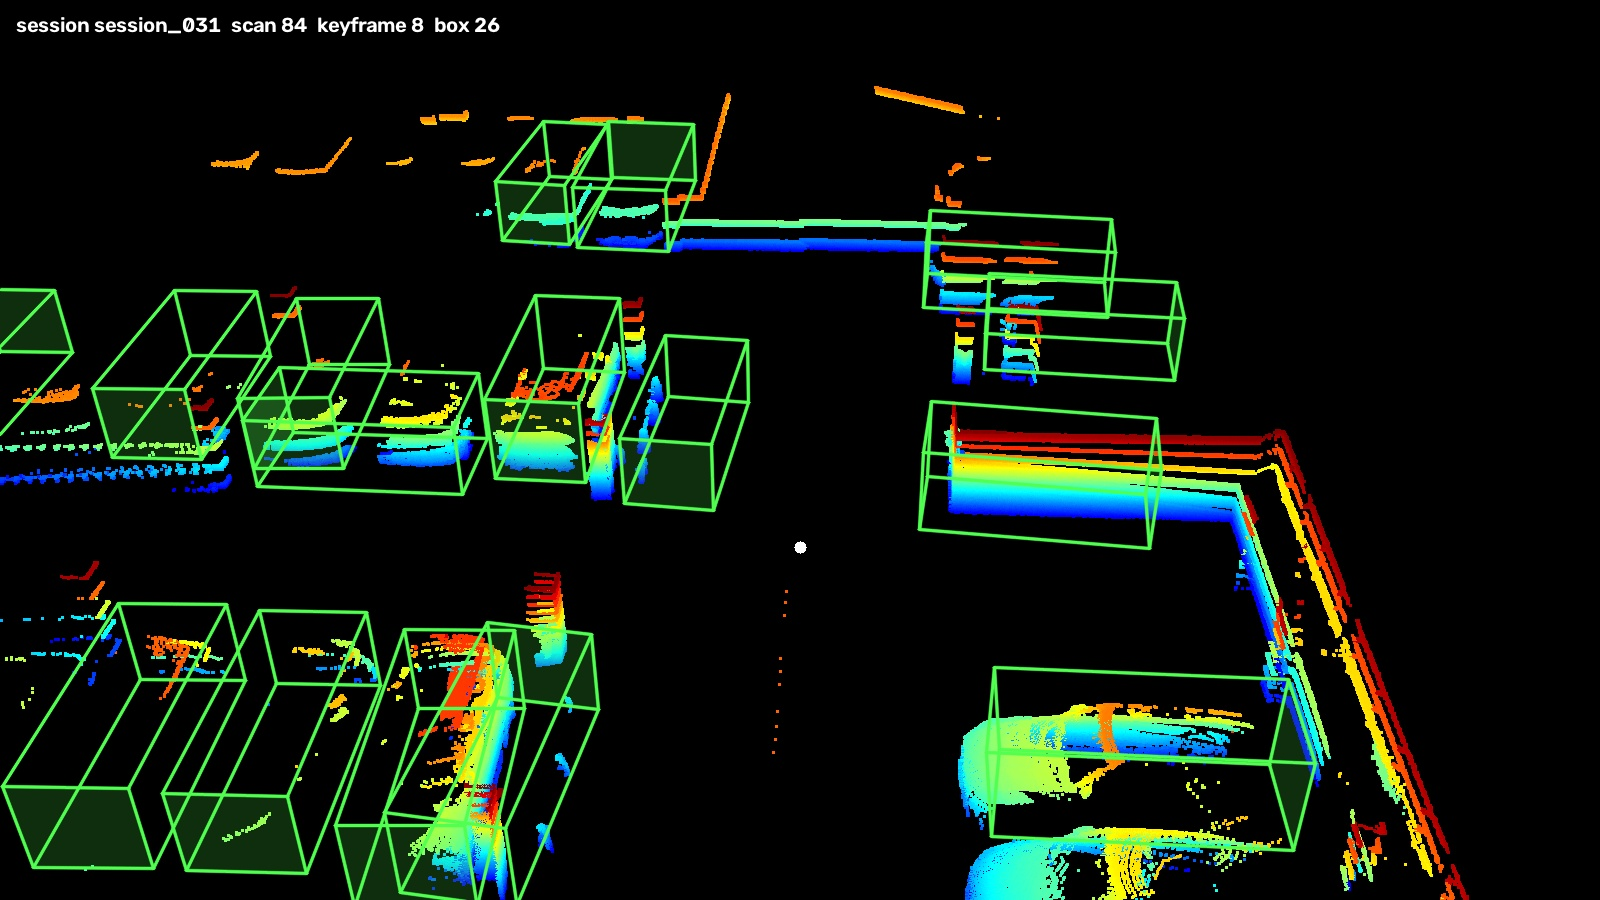
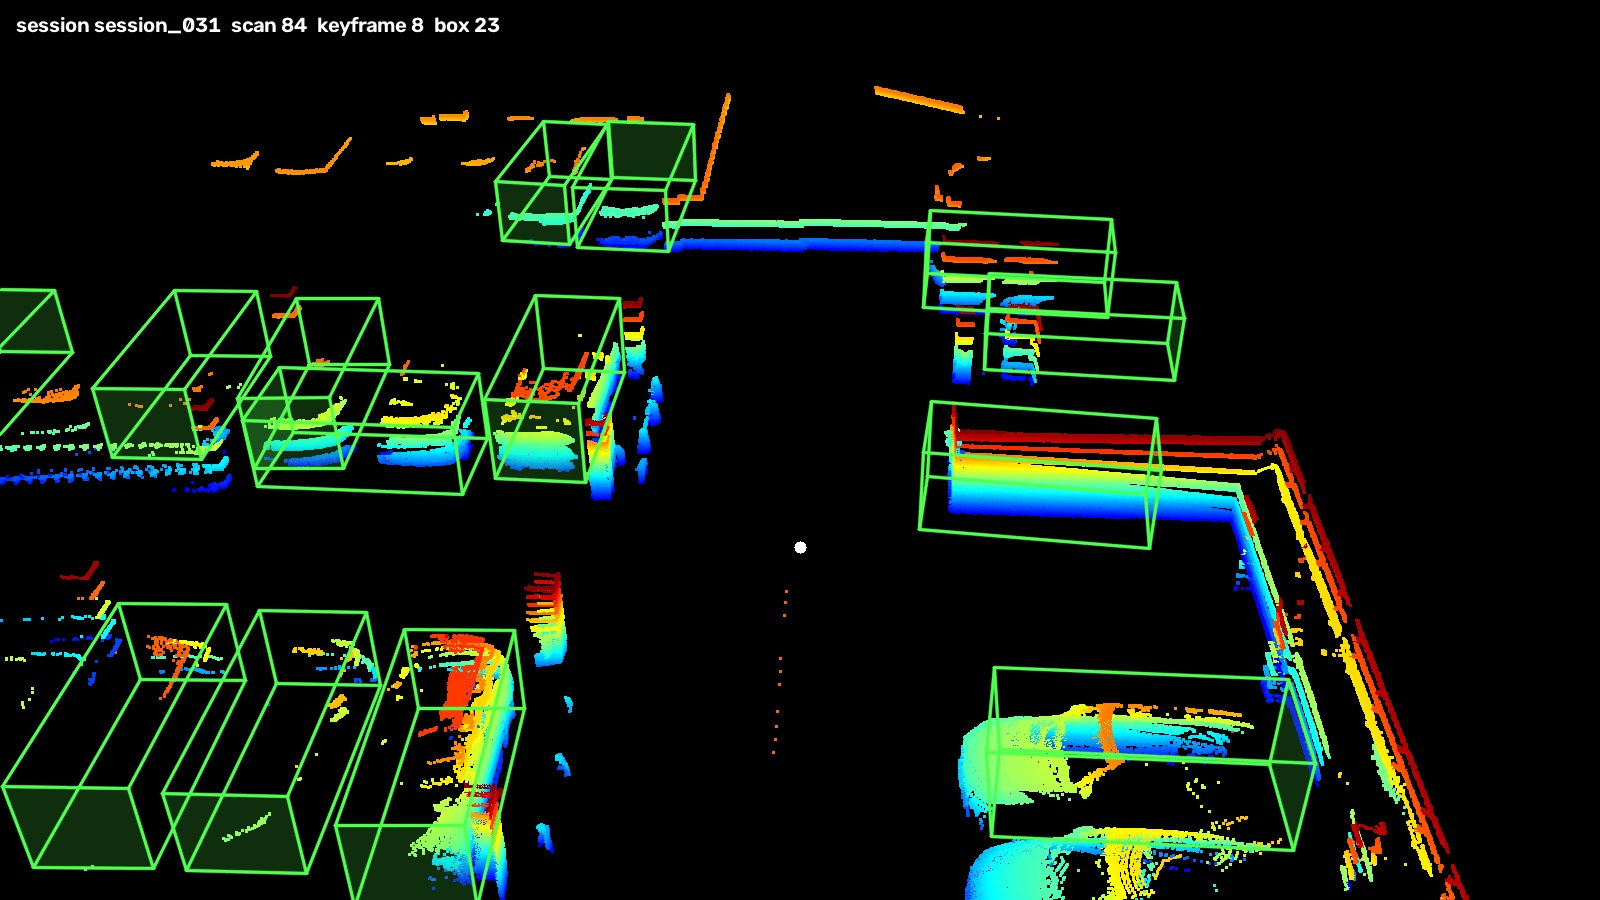
초안 다듬기: 내보낼 박스로 모양 검사를 한 번 더
기존 모양 검사는 월드 평균 박스를 보는데, 실제로 나가는 것은 원본 검출
기하로 바뀐 박스다. 둘이 다르면 검사를 통과한 박스가 엉뚱한 곳에 놓인
채 나간다. session_031 에서 벽·난간에 걸친 박스 3개가 그렇게 빠져나갔다.

30스윕 누적 점으로 내보낼 박스를 다시 잰다:
  --max-above 0.7      지붕 위(지면+1.95~2.8m) / 몸통대(0.3~1.8m) 점 비율
  --min-roof-area 0.05 지붕대 점이 박스 바닥면에서 차지하는 비율

차량 31개의 지붕 위 비율은 0.00~0.57, 오탐 3개는 0.76/5.61/4.91 로
사이가 비어 있다. 차량을 하나도 잃지 않고 3개를 걸러낸다.

session_031: 541 → 481 개, 물체 36 → 33 개.

경사로 2개(T029·T030)는 아직 못 거른다. 모든 특징이 차량 범위 안이고
바닥 기울기는 차량 T028 이 더 크다. 사람이 지워야 한다.

Claude-Session: https://claude.ai/code/session_01GvGTyauCpumxwLHxDhvDyo

Changed region(s): [[0.2188, 0.6844, 0.375, 1.0], [0.375, 0.3733, 0.4688, 0.5911]]

diff --git a/데이터_라벨링/code/refine_boxes.py b/데이터_라벨링/code/refine_boxes.py
@@ -83,6 +83,12 @@ def main():
                          "수직 구조물(기둥·벽)로 본다. 실측상 차는 0.0~0.5, 기둥은 3 이상")
     ap.add_argument("--min-car-points", type=int, default=50,
                     help="차 높이대(지면+0.3~2.0 m) 점이 이보다 적으면 버린다")
+    ap.add_argument("--max-above", type=float, default=0.7,
+                    help="차 지붕 위(지면+1.95~2.8 m) 점 / 몸통대(0.3~1.8 m) 점. "
+                         "실측상 차는 0.00~0.57, 벽·난간에 걸린 박스는 0.76 이상")
+    ap.add_argument("--min-roof-area", type=float, default=0.05,
+                    help="지붕대(지면+1.15~1.8 m) 점이 박스 바닥면에서 차지하는 비율. "
+                         "차는 0.08 이상, 지붕이 없는 구조물은 0.02 이하")
     ap.add_argument("--continue-ratio", type=float, default=0.6,
                     help="박스 양 끝 너머로 점이 이만큼 이어지면 벽으로 본다")
     args = ap.parse_args()
@@ -411,11 +417,68 @@ def main():
         total += len(boxes)
         out["frames"].append({"keyframe": f["keyframe"], "scan": k, "boxes": boxes})
 
+    # ---------- 7. 내보낼 박스로 다시 모양 검사 ----------
+    # 5.5 단계 검사는 **월드 평균 박스**를 본다. 그런데 실제로 나가는 것은
+    # 6 단계에서 원본 검출 기하로 바뀐 박스다. 둘이 다르면 검사를 통과한
+    # 박스가 엉뚱한 곳에 놓인 채 나간다 — session_031 에서 벽·난간에 걸친
+    # 박스 3 개가 이렇게 빠져나갔다. 그래서 **내보낼 박스 자체**를 다시 잰다.
+    if not args.no_shape_check:
+        wp2 = []
+        for f in frames:
+            a, b = ds._spans[f["scan"]]
+            T = poses[f["scan"]]
+            wp2.append(ds._xyz[a:b] @ T[:3, :3].T + T[:3, 3])
+        PW2 = np.vstack(wp2)
+        z2 = PW2[:, 2]
+        hh2, ee2 = np.histogram(z2[z2 < np.median(z2)], bins=100)
+        gnd = float(ee2[int(np.argmax(hh2))])
+
+        per_track = {}
+        for f in out["frames"]:
+            T = poses[f["scan"]]
+            for b in f["boxes"]:
+                c = np.array(b["center"]) @ T[:3, :3].T + T[:3, 3]
+                yw = b["yaw"] + yaw_of(T[:3, :3])
+                per_track.setdefault(b["track_id"], []).append((c, b["size"], yw))
+
+        drop = {}
+        for tid, v in per_track.items():
+            c, size, yw = v[len(v) // 2]              # 중간 프레임을 대표로
+            l, wd, h = size
+            d = PW2[:, :2] - c[:2]
+            ca, sa = np.cos(-yw), np.sin(-yw)
+            lo = np.stack([d[:, 0] * ca - d[:, 1] * sa,
+                           d[:, 0] * sa + d[:, 1] * ca], axis=1)
+            zr = z2 - gnd
+            foot = (np.abs(lo[:, 0]) < l / 2) & (np.abs(lo[:, 1]) < wd / 2)
+            body = foot & (zr > 0.3) & (zr < 1.8)
+            nb = int(body.sum())
+            if nb < 30:
+                continue                              # 점이 없으면 판단 보류
+            above = (foot & (zr > 1.95) & (zr < 2.8)).sum() / nb
+            roof = foot & (zr > 1.15) & (zr < 1.8)
+            area = (len(np.unique(np.round(lo[roof] / 0.2).astype(int), axis=0))
+                    * 0.04 / (l * wd)) if roof.sum() > 20 else 0.0
+            if above > args.max_above:
+                drop[tid] = f"지붕 위에 점이 많다 {above:.2f}"
+            elif area < args.min_roof_area:
+                drop[tid] = f"지붕이 없다 {area:.2f}"
+        if drop:
+            for f in out["frames"]:
+                f["boxes"] = [b for b in f["boxes"] if b["track_id"] not in drop]
+            total = sum(len(f["boxes"]) for f in out["frames"])
+            out["n_tracks"] = len(per_track) - len(drop)
+            print(f"→ 내보낼 박스 재검사: {len(drop)} 개 트랙 탈락")
+            for tid, why in sorted(drop.items()):
+                print(f"     {tid}: {why}")
+        else:
+            print("→ 내보낼 박스 재검사: 탈락 없음")
+
     with open(args.out, "w") as fp:
         json.dump(out, fp, indent=1, ensure_ascii=False)
     before = len(obs)
     print(f"\n박스 {before} → {total} 개 (프레임당 {before/len(frames):.1f} → {total/len(frames):.1f})")
-    print(f"  트랙 {len(tracks)} 개, 검출이 빠졌던 자리를 채운 것 {filled} 개")
+    print(f"  트랙 {out['n_tracks']} 개, 검출이 빠졌던 자리를 채운 것 {filled} 개")
     print(f"  원본 기하 {kept_raw} 개 · 전파로 채운 것 {filled} 개 (점에 맞춘 것 {snapped} 개)")
     print(f"저장: {args.out}")
 

diff --git a/session_031/README.md b/session_031/README.md
@@ -121,7 +121,9 @@ python3 데이터_라벨링/code/refine_boxes.py <세션> --poses <deskew_on> \
 | `--link-dist` | 2.5 | 묶기 후보를 추리는 거리 (IoU 계산량 감소용) |
 | `--min-views` | 3 | 3 개 키프레임 미만으로 관측된 군집은 버린다 |
 | `--min-points` | 5 | 박스 안 점이 이보다 적으면 그 프레임에서 뺀다 |
-| `--max-vertical` | 1.0 | 차 지붕 위 빈 구간 / 차 높이대 점 비율. 실측상 차 0.0~0.5, 기둥 3 이상 |
+| `--max-vertical` | 1.0 | 차 지붕 위 빈 구간 / 차 높이대 점 비율 (월드 평균 박스 기준) |
+| `--max-above` | **0.7** | 내보낼 박스 재검사용. 지붕 위(지면+1.95~2.8 m) 점 / 몸통대(0.3~1.8 m) 점. 실측: 차 0.00~0.57, 오탐 0.76 이상 |
+| `--min-roof-area` | **0.05** | 지붕대 점이 박스 바닥면에서 차지하는 비율. 실측: 차 0.08 이상, 지붕 없는 구조물 0.02 이하 |
 | `--min-car-points` | 50 | 차 높이대(지면+0.3~2.0 m) 점이 이보다 적으면 버린다 |
 | `--continue-ratio` | 0.6 | 박스 양 끝 너머로 점이 이만큼 이어지면 벽으로 본다 |
 | `--no-refit` | 끔 | 점에 맞춰 크기·방향 재측정 |
@@ -141,8 +143,28 @@ python3 데이터_라벨링/code/refine_boxes.py <세션> --poses <deskew_on> \
 | 6 | 모양 검사 (벽 3 · 점부족 3 · 수직구조물 1 탈락) | **36 개** |
 | 7 | 모든 키프레임에 다시 뿌림. **기하는 원본 검출 그대로**, 없는 프레임만 전파 | 원본 **393** · 전파 **148** |
 | 8 | 트랙 ID 부여 | 36 개 |
+| 9 | **내보낼 박스로 다시 모양 검사** | 3 개 탈락 → **33 개** |
 
-**최종: 690 → 541 개 (프레임당 27.6 → 21.6), 물체 36 개**
+**최종: 690 → 481 개 (프레임당 27.6 → 19.2), 물체 33 개**
+
+### 9 — 왜 모양 검사를 두 번 하나
+
+6 단계 검사는 **월드 평균 박스**를 본다. 그런데 실제로 나가는 것은 8 단계에서 **원본 검출 기하로 바뀐 박스**다. 둘이 다르면 검사를 통과한 박스가 엉뚱한 곳에 놓인 채 나간다. session_031 에서 벽·난간에 걸친 박스 3 개가 이렇게 빠져나갔다.
+
+그래서 **내보낼 박스 자체를 다시 잰다.** 30 스윕 누적 점으로 차의 옆모습을 보면 기준이 뚜렷해진다.
+
+| 트랙 | 지붕 위 비율 | 정체 |
+|---|---|---|
+| T003 | 0.76 | 점이 거의 없는 빈 박스 |
+| T021 | **5.61** | 차에서 밀려 난간·바닥을 감쌈 |
+| T024 | **4.91** | 차에서 밀려 벽을 감쌈 |
+| (차량 31 개) | 0.00 ~ 0.57 | — |
+
+차량 최대값 0.57 과 오탐 최소값 0.76 사이가 비어 있어, 임계값 0.7 로 **차량을 하나도 잃지 않고** 3 개를 걸러낸다.
+
+### 아직 못 거르는 것
+
+**경사로 2 개(T029 · T030)는 남는다.** 지붕 위 비율 0.27 · 0.59, 지붕 면적 0.34 · 0.25 로 차량 범위 안에 있다. 바닥 기울기도 재봤으나 차량 T028 이 0.171 로 더 커서 갈리지 않았다. 이 둘은 10 단계에서 사람이 지워야 한다.
 
 ### 왜 기하를 원본에서 가져오나
 
@@ -167,11 +189,11 @@ python3 데이터_라벨링/code/refine_boxes.py <세션> --poses <deskew_on> \
 
 ![다듬기 전후](다듬기_전후.jpg)
 
-중앙에 떠 있던 빈 박스와 주황색 `truck` 오탐이 사라지고, 겹친 박스가 하나로 정리됐다.
+중앙에 떠 있던 빈 박스와 주황색 `truck` 오탐이 사라지고, 겹친 박스가 하나로 정리됐다. 이 프레임에서 32 → 23 개다.
 
 ### 검증 — 박스 안에 점이 있는가
 
-30 스윕 누적, 차 높이대(지면+0.25~2.2 m) 기준, 박스 541 개:
+30 스윕 누적, 차 높이대(지면+0.25~2.2 m) 기준, 박스 481 개:
 
 | 박스 안 점 | 개수 |
 |---|---|
@@ -200,9 +222,9 @@ python3 데이터_라벨링/code/to_rebound.py <세션> --poses <deskew_on> --ke
 
 ```
 rebound/session_031/
-├── bounding/0~24/boxes.json          541 개  ← 여기서 작업 (confidence 100)
-├── pred_bounding/0~24/boxes.json     541 개  ← 비교용
-└── pred_bounding_original/           541 개  ← 백업
+├── bounding/0~24/boxes.json          481 개  ← 여기서 작업 (confidence 100)
+├── pred_bounding/0~24/boxes.json     481 개  ← 비교용
+└── pred_bounding_original/           481 개  ← 백업
 ```
 
 용량 408 MB (10 스윕일 때 213 MB). 박스 `id` 가 곧 트랙 ID 라 **프레임이 바뀌어도 같은 차는 같은 ID** 다.
@@ -241,4 +263,4 @@ python3 데이터_라벨링/code/render_lidar_3d.py <세션> --poses <deskew_on>
 
 ## 10 단계부터 할 일
 
-사람이 ReBound 에서 박스 541 개를 확인·수정한다. 남은 오탐(벽·기둥)과 어긋난 박스는 **검출기 자체의 오차**이며 자동으로는 더 줄이지 못한다.
+사람이 ReBound 에서 박스 481 개를 확인·수정한다. 남은 오탐(벽·기둥)과 어긋난 박스는 **검출기 자체의 오차**이며 자동으로는 더 줄이지 못한다.
